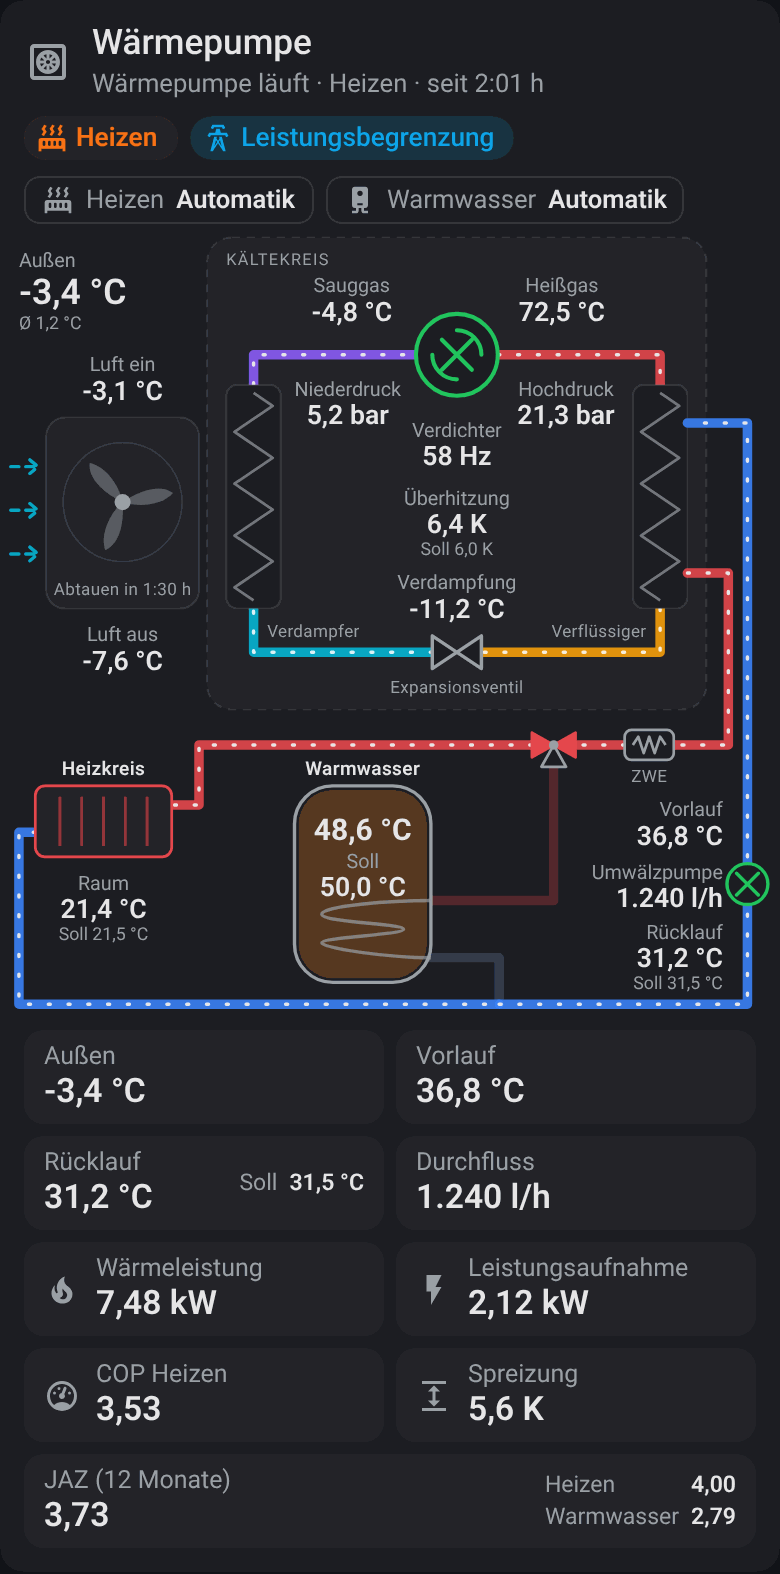
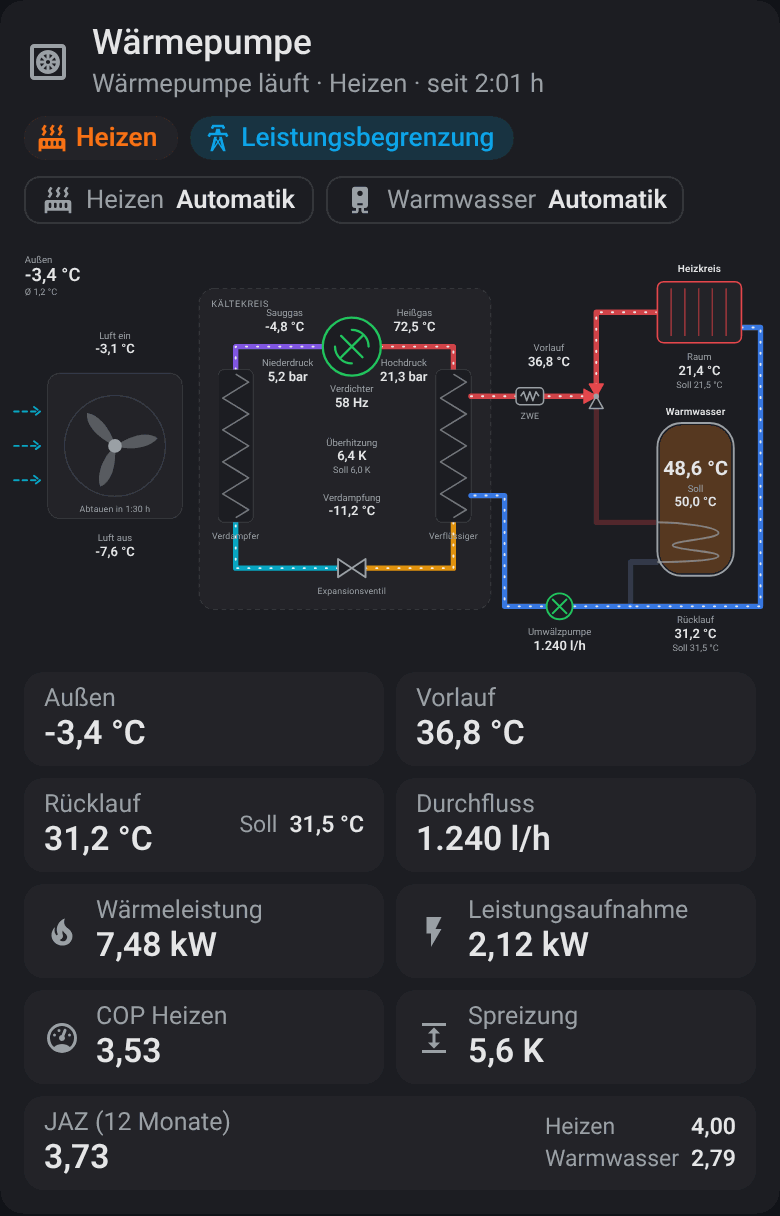
Narrow layout: keep the desktop diagram, show all values in it
The portrait diagram looked too crowded. Narrow cards now show the same
diagram as the desktop, scaled down, with every value and caption; the
enlarged captions and tank temperature are gone so everything fits.
Return target, full-width SPF tile and the tighter header/tiles stay.

diff --git a/luxtronik-heatpump-card.js b/luxtronik-heatpump-card.js
@@ -319,7 +319,6 @@ class LuxtronikHeatpumpCard extends HTMLElement {
         </div>
         <div class="schema">
           ${svgTpl(c, src)}
-          ${svgNarrowTpl(c, src)}
         </div>
         <div class="temps">
           ${[["outdoor", T.outdoor], ["flow", T.flow], ["return", T.return, "return_target"], ["flow_rate", T.flow_rate]]
@@ -397,8 +396,8 @@ class LuxtronikHeatpumpCard extends HTMLElement {
     const srcOn = srcPumpSt ? srcPumpSt.state === "on" : compressorOn;
     const evuLock = status === "evu";
 
-    // Both diagrams (wide and narrow) carry the same state classes
-    for (const svg of r.querySelectorAll("svg.hp")) {
+    const svg = r.querySelector("svg.hp");
+    if (svg) {
       svg.classList.toggle("comp-on", compressorOn);
       svg.classList.toggle("src-on", srcOn && !defrost);
       svg.classList.toggle("defrost", defrost);
@@ -411,8 +410,8 @@ class LuxtronikHeatpumpCard extends HTMLElement {
     }
 
     // Defrost countdown (air source; attribute of the status-time sensor)
-    const abts = r.querySelectorAll("[data-defrost-in]");
-    if (abts.length) {
+    const abt = r.querySelector("[data-defrost-in]");
+    if (abt) {
       const t = this._st("status_time");
       let txt = "";
       if (defrost) txt = T.defrost_running;
@@ -421,15 +420,15 @@ class LuxtronikHeatpumpCard extends HTMLElement {
         const sec = k ? parseFloat(t.attributes[k]) : NaN;
         if (!isNaN(sec) && sec > 0) txt = `${T.defrost_in} ${fmtDuration(sec)}`;
       }
-      abts.forEach((el) => (el.textContent = txt));
+      abt.textContent = txt;
     }
 
     // Tank fill colour
     const dhwT = this._num("dhw");
-    const fill = tempColor(isNaN(dhwT) ? 35 : dhwT, 20, 62);
-    r.querySelectorAll("[data-tank-fill]").forEach((el) => el.setAttribute("fill", fill));
-    const dhwTxt = this._fmt("dhw");
-    r.querySelectorAll("[data-tank-temp]").forEach((el) => (el.textContent = dhwTxt));
+    const tankFill = r.querySelector("[data-tank-fill]");
+    if (tankFill) tankFill.setAttribute("fill", tempColor(isNaN(dhwT) ? 35 : dhwT, 20, 62));
+    const tankTxt = r.querySelector("[data-tank-temp]");
+    if (tankTxt) tankTxt.textContent = this._fmt("dhw");
 
     // Header
     const chip = r.querySelector("[data-status-chip]");
@@ -696,23 +695,18 @@ function tempColor(t, min, max) {
   return `rgba(${c[0]}, ${c[1]}, ${c[2]}, 0.28)`;
 }
 
-/* Line offsets of a value label; the narrow diagram uses larger type (see STYLES) */
-const LBL_WIDE = { n: 19, nBig: 24, s: 36, sBig: 42, h: 38, hSub: 56 };
-const LBL_NARROW = { n: 21, nBig: 27, s: 37, sBig: 45, h: 40, hSub: 57 };
-
 /* SVG value label: title + value (+ optional sub line) */
 function lbl(key, x, y, title, opts = {}) {
   const a = opts.anchor || "middle";
-  const m = opts.m || LBL_WIDE;
   const sub = opts.sub
     ? ` data-sub="${opts.sub}" data-sub-label="${opts.subLabel || ""}"`
     : "";
   return `
     <g class="v${opts.big ? " big" : ""}" data-k="${key}"${sub} transform="translate(${x},${y})">
-      <rect class="hit" x="${a === "start" ? -4 : a === "end" ? -96 : -50}" y="-14" width="100" height="${opts.sub ? m.hSub : m.h}" rx="6"/>
+      <rect class="hit" x="${a === "start" ? -4 : a === "end" ? -96 : -50}" y="-14" width="100" height="${opts.sub ? 56 : 38}" rx="6"/>
       <text class="t" text-anchor="${a}">${title}</text>
-      <text class="n" y="${opts.big ? m.nBig : m.n}" text-anchor="${a}">–</text>
-      ${opts.sub ? `<text class="s" y="${opts.big ? m.sBig : m.s}" text-anchor="${a}"></text>` : ""}
+      <text class="n" y="${opts.big ? 24 : 19}" text-anchor="${a}">–</text>
+      ${opts.sub ? `<text class="s" y="${opts.big ? 42 : 36}" text-anchor="${a}"></text>` : ""}
     </g>`;
 }
 
@@ -817,7 +811,7 @@ function sourceTpl(c, src) {
 
 function svgTpl(c, src) {
   return `
-  <svg class="hp wide" viewBox="0 0 1000 560" xmlns="http://www.w3.org/2000/svg" role="img" aria-label="${T.title}">
+  <svg class="hp" viewBox="0 0 1000 560" xmlns="http://www.w3.org/2000/svg" role="img" aria-label="${T.title}">
     <defs>
       <linearGradient id="lxHot" x1="0" x2="1"><stop offset="0" stop-color="#f97316"/><stop offset="1" stop-color="#e5484d"/></linearGradient>
     </defs>
@@ -924,149 +918,6 @@ function svgTpl(c, src) {
       ${lbl("flow", 708, 156, T.flow)}
       ${lbl("return", 900, 512, T.return, { sub: "return_target", subLabel: `${T.target} ` })}
       ${lbl("flow_rate", 722, 528, T.pump)}
-    </g>
-  </svg>`;
-}
-
-/*
- * Portrait variant for narrow cards (phones): the same elements, classes and
- * data keys as the wide diagram, so _update drives both and every value stays
- * visible. Heat source and refrigerant circuit side by side on top, heating
- * water below - flow along the top, return along the bottom. The container
- * query in STYLES shows one of the two diagrams.
- */
-function sourceNarrowTpl(c, src, L) {
-  if (c.heat_source === "air") {
-    const arrows = [172, 204, 236]
-      .map((y) => `<path class="air" d="M2 ${y} h20 m-6 -5 l6 5 l-6 5"/>`)
-      .join("");
-    return `
-      <g class="source air-src">
-        ${arrows}
-        <rect class="box" x="28" y="136" width="112" height="140" rx="14"/>
-        <g class="fan" transform="translate(84,198) scale(.66)">
-          <circle class="ring" r="66"/>
-          <g class="blades">
-            ${[0, 120, 240]
-              .map((a) => `<path transform="rotate(${a})" d="M0 0 C 14 -10, 40 -22, 56 -10 C 44 4, 18 6, 0 0 Z"/>`)
-              .join("")}
-            <circle r="9" class="hub"/>
-            <circle r="60" class="pivot"/>
-          </g>
-        </g>
-        ${L("source_in", 84, 102, src.in)}
-        ${L("source_out", 84, 300, src.out)}
-        <text class="cap defrost-in" x="84" y="266" text-anchor="middle" data-defrost-in data-click="status_time"></text>
-      </g>`;
-  }
-  return `
-    <g class="source ground-src">
-      <rect class="ground" x="6" y="304" width="134" height="44" rx="8"/>
-      <text class="gl" x="30" y="330">${src.title}</text>
-      ${pipe("brine warm", "M18 304 V140 H160")}
-      ${pipe("brine cold", "M160 250 H128 V304")}
-      ${pipe("brine loop", "M128 304 V336 H18 V304")}
-      ${L("source_in", 88, 104, src.in)}
-      ${L("source_flow", 30, 178, T.source_flow, { anchor: "start" })}
-      ${L("source_out", 30, 274, src.out, { anchor: "start" })}
-    </g>`;
-}
-
-function svgNarrowTpl(c, src) {
-  const L = (key, x, y, title, opts = {}) => lbl(key, x, y, title, { ...opts, m: LBL_NARROW });
-  return `
-  <svg class="hp narrow" viewBox="0 0 560 576" xmlns="http://www.w3.org/2000/svg" role="img" aria-label="${T.title}">
-    ${L("outdoor", 8, 26, T.outdoor, { anchor: "start", big: true, sub: "outdoor_avg", subLabel: "Ø " })}
-
-    ${sourceNarrowTpl(c, src, L)}
-
-    <rect class="housing" x="146" y="4" width="366" height="346" rx="18"/>
-    <text class="htitle" x="160" y="24">${T.refrigerant}</text>
-
-    <g class="refrigerant">
-      ${pipe("r-suction", "M180 112 V90 H299")}
-      ${pipe("r-hot", "M359 90 H478 V112")}
-      ${pipe("r-liquid", "M478 276 V308 H347")}
-      ${pipe("r-inject", "M311 308 H180 V276")}
-
-      <rect class="hx evap" x="160" y="112" width="40" height="164" rx="8"/>
-      <path class="coil" d="${zigzag(160, 118, 270, 40, 8)}"/>
-      <rect class="frost" x="160" y="112" width="40" height="164" rx="8"/>
-      <text class="cap" x="190" y="297">${T.evaporator}</text>
-
-      <rect class="hx cond" x="458" y="112" width="40" height="164" rx="8"/>
-      <path class="coil" d="${zigzag(458, 118, 270, 40, 8)}"/>
-      <text class="cap" x="468" y="297" text-anchor="end">${T.condenser}</text>
-
-      <g class="compressor" data-click="compressor" transform="translate(329,90)">
-        <circle class="body" r="30"/>
-        <g class="rotor">
-          <path d="M0 -18 A18 18 0 0 1 18 0 M0 18 A18 18 0 0 1 -18 0 M-11 -11 L11 11 M11 -11 L-11 11"/>
-        </g>
-      </g>
-      ${L("frequency", 329, 150, T.compressor)}
-
-      <g class="eev" transform="translate(329,308)">
-        <path d="M-18 -12 L18 12 L18 -12 L-18 12 Z"/>
-      </g>
-      <text class="cap" x="329" y="338" text-anchor="middle">${T.eev}</text>
-
-      ${L("suction", 252, 44, T.suction)}
-      ${L("low_pressure", 249, 120, T.low_pressure)}
-      ${L("hot_gas", 406, 44, T.hot_gas)}
-      ${L("high_pressure", 409, 120, T.high_pressure)}
-      ${L("superheat", 329, 200, T.superheat, { sub: "superheat_target", subLabel: `${T.target} ` })}
-      ${L("evaporation", 329, 262, T.evaporation)}
-    </g>
-
-    <!-- Heating water: flow leaves the condenser low and runs along the top
-         of the lower half, the return comes back along the bottom -->
-    <g class="water">
-      ${pipe("w-flow", "M498 250 H528 V376 H416")}
-      ${pipe("w-heat", "M384 376 H140 V420 H120")}
-      ${pipe("w-heat-ret", "M20 440 H8 V566 H360")}
-      ${pipe("w-dhw", "M400 392 V490 H310")}
-      ${pipe("w-dhw-ret", "M310 532 H360 V566")}
-      ${pipe("w-ret", "M360 566 H542 V140 H498")}
-
-      <g class="zwe" data-click="zwe" transform="translate(470,376)">
-        <rect x="-18" y="-11" width="36" height="22" rx="5"/>
-        <path d="M-12 0 l4 -6 l4 12 l4 -12 l4 12 l4 -12 l4 6"/>
-        <text class="cap" y="27" text-anchor="middle">${T.zwe}</text>
-      </g>
-
-      <!-- 3-way valve: in from the right, heating to the left, DHW down -->
-      <g class="valve" data-click="dhw_valve" transform="translate(400,376)">
-        <path class="vin" d="M16 -9 L0 0 L16 9 Z"/>
-        <path class="vheat" d="M-16 -9 L0 0 L-16 9 Z"/>
-        <path class="vdhw" d="M-9 16 L0 0 L9 16 Z"/>
-        <circle r="3.5" class="vc"/>
-      </g>
-
-      <text class="cap strong" x="70" y="398" text-anchor="middle">${T.heating_circuit}</text>
-      <g class="radiator">
-        <rect x="20" y="406" width="100" height="52" rx="7"/>
-        ${[38, 54, 70, 86, 102].map((x) => `<line x1="${x}" y1="414" x2="${x}" y2="450"/>`).join("")}
-      </g>
-      ${L("room", 70, 482, T.room, { sub: "room_target", subLabel: `${T.target} ` })}
-
-      <text class="cap strong" x="260" y="398" text-anchor="middle">${T.dhw}</text>
-      <g class="tank" data-click="dhw">
-        <rect class="shell" x="210" y="406" width="100" height="144" rx="28"/>
-        <rect data-tank-fill x="213" y="409" width="94" height="138" rx="25" fill="transparent"/>
-        <path class="coil tcoil" d="M310 490 C 280 490, 230 494, 230 500 S 290 507, 290 511 S 230 517, 230 521 S 280 532, 310 532"/>
-        <text class="tt" x="260" y="446" text-anchor="middle" data-tank-temp>–</text>
-      </g>
-      ${L("dhw_target", 260, 466, T.target)}
-
-      <g class="pumpicon" data-click="pump" transform="translate(542,478)">
-        <circle r="15"/>
-        <g class="imp"><path d="M-8 -8 L8 8 M8 -8 L-8 8"/></g>
-      </g>
-
-      ${L("flow", 524, 428, T.flow, { anchor: "end" })}
-      ${L("flow_rate", 524, 474, T.pump, { anchor: "end" })}
-      ${L("return", 524, 518, T.return, { anchor: "end", sub: "return_target", subLabel: `${T.target} ` })}
     </g>
   </svg>`;
 }
@@ -1268,19 +1119,10 @@ svg.hp.no-refrigerant .refrigerant .v, svg.hp.no-refrigerant .refrigerant .cap {
 .ksub b { font-weight:600; color: var(--lx-text); text-align:right; font-variant-numeric: tabular-nums; }
 .ksub[hidden], .ksub [hidden] { display:none; }
 
-/* Narrow card (phone): portrait diagram that keeps every value, compact tiles */
+/* Narrow card (phone): the diagram stays as on the desktop, only scaled down,
+   with every value; the main values are repeated as compact tiles below */
 .temps { display:none; }
-svg.hp.narrow { display:none; }
-svg.hp.narrow .v .t { font-size: 14.5px; }
-svg.hp.narrow .v .n { font-size: 19.5px; }
-svg.hp.narrow .v .s { font-size: 13px; }
-svg.hp.narrow .v.big .n { font-size: 26px; }
-svg.hp.narrow .cap { font-size: 12.5px; }
-svg.hp.narrow .cap.strong { font-size: 14px; }
-svg.hp.narrow .tank .tt { font-size: 22px; }
 @container lxcard (max-width: 560px) {
-  svg.hp.wide { display:none; }
-  svg.hp.narrow { display:block; }
   .header { padding: 12px 12px 2px; gap: 8px; }
   .title { gap: 10px; }
   .title > ha-icon { --mdc-icon-size: 24px; }

diff --git a/README.md b/README.md
@@ -18,7 +18,7 @@ An animated system-diagram card for Home Assistant, for heat pumps with a **Luxt
 - **Key figures**: heat output, power input, COP (heating or DHW depending on mode, only while the compressor runs; falls back to heat output ÷ power input when the COP sensor is missing and power input is above 50 W), spread (only while the pump runs), SPF over the last 12 months (Σ heat ÷ Σ energy input, heating + DHW, with the heating and DHW figures beside it, from Home Assistant's long-term statistics of the four counters; shows the number of days used when that is fewer than 330, e.g. while less than a year of history exists). The lifetime counters cannot be divided directly: the energy input counters only start counting with the firmware that added them, often years after the heat counters. Days on which a counter jumped by roughly its whole value (the controller briefly reporting 0) are left out.
 - **Visual editor**: every setting and every entity mapping can be changed in the UI.
 - **German and English**, following the Home Assistant language.
-- **Narrow cards** (≤ 560 px, e.g. phones): a compact portrait diagram that still shows every value (heat source and refrigerant circuit on top, heating water below), plus tiles for outdoor, flow, return (with its target) and flow rate. Header and tiles are tighter; the SPF tile spans the full width without its icon.
+- **Narrow cards** (≤ 560 px, e.g. phones): the diagram keeps the desktop layout with every value, scaled down; outdoor, flow, return (with its target) and flow rate are repeated as tiles below. Header and tiles are tighter; the SPF tile spans the full width without its icon.
 
 Every value is clickable and opens the Home Assistant more-info dialog. Values whose entity does not exist are hidden automatically.
 
